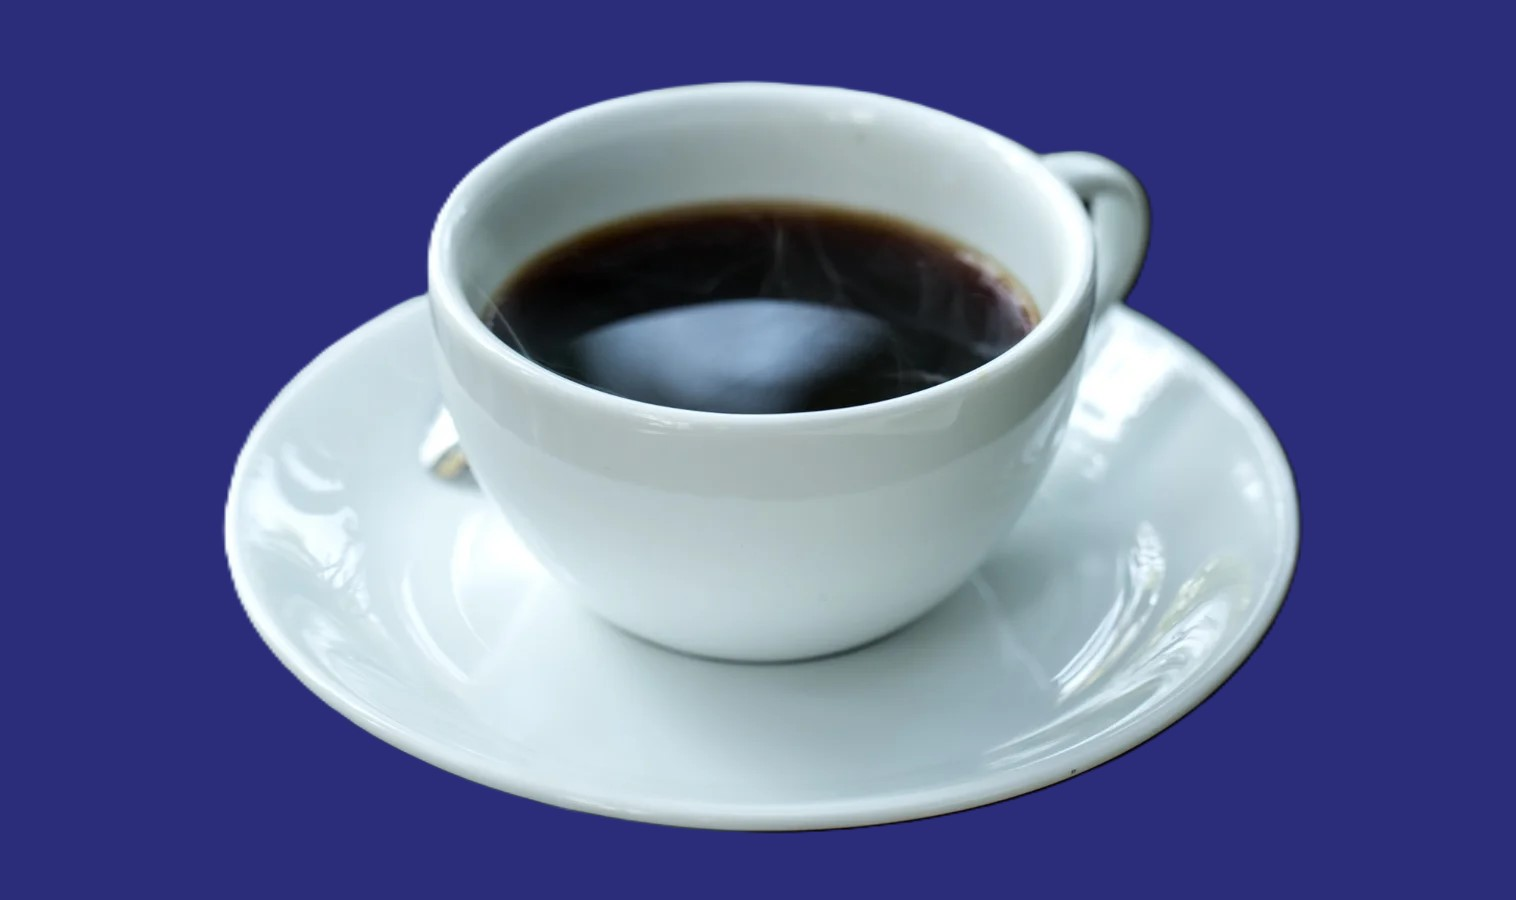
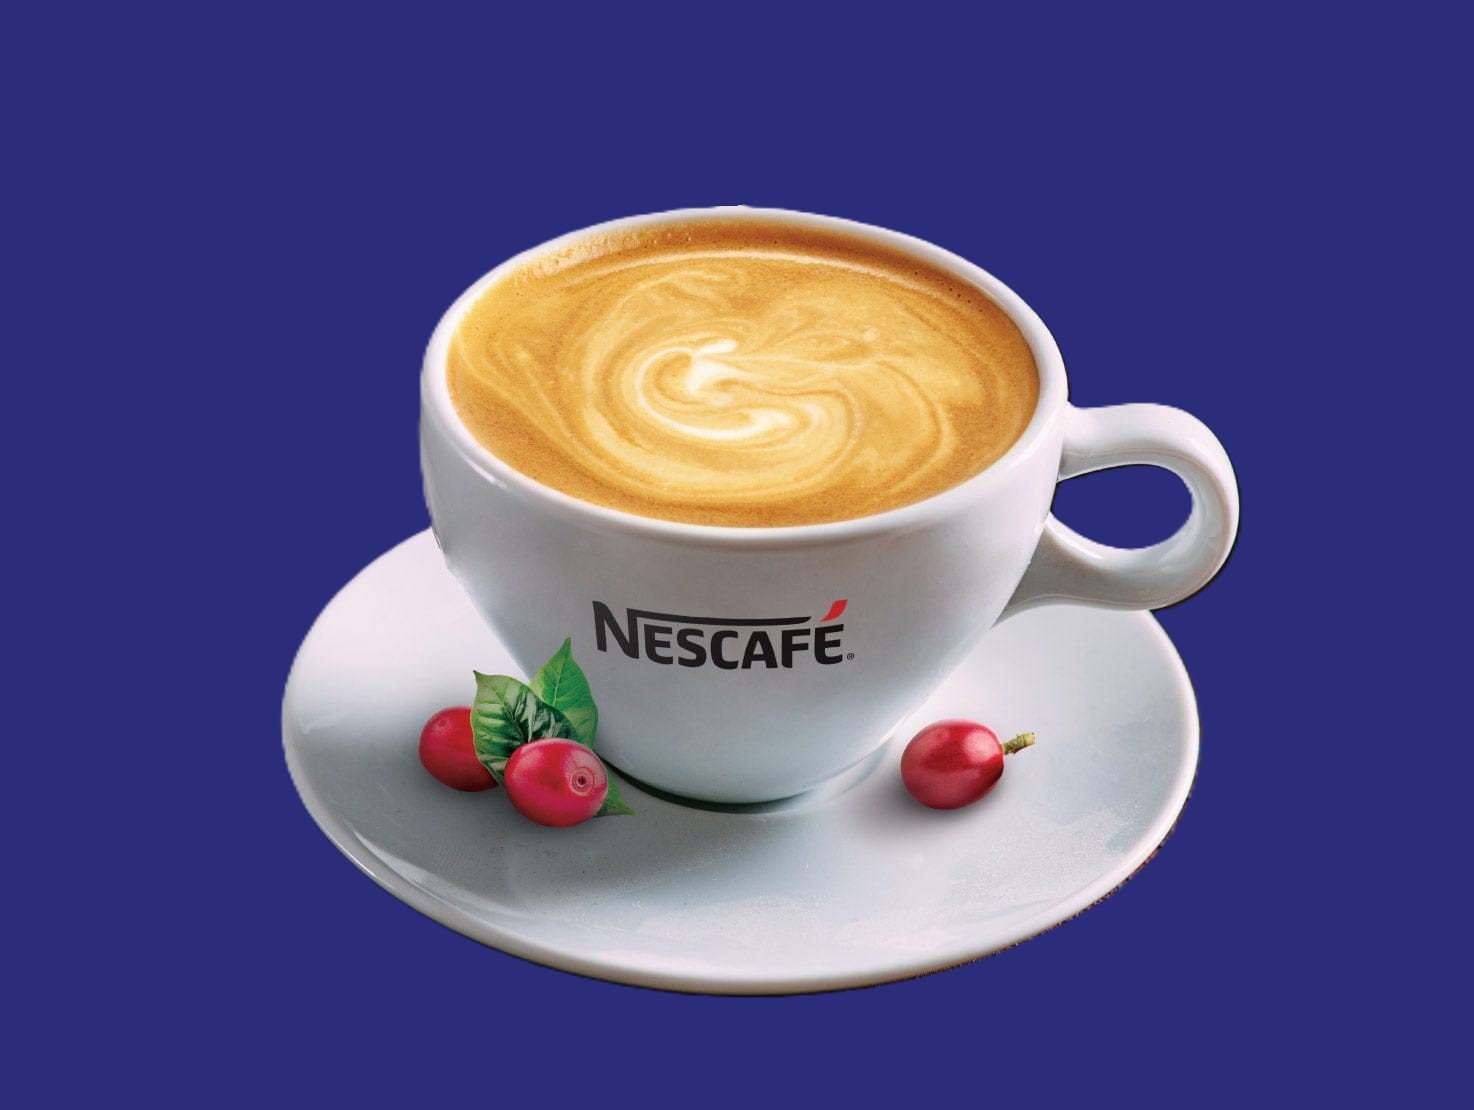
feat: added new item to menu TeaPot. fix: -deleted unused phone number - changed nescafe and nesta images -fixed some layout responsivness bugs to work on the smaller screen sizes.

diff --git a/src/pages/menu.tsx b/src/pages/menu.tsx
@@ -142,7 +142,7 @@ const menuItems: MenuItem[] = [
 		category: "drinks",
 		drinkType: "cold",
 		name: "Barbican",
-		price: 6.0,
+		price: 8,
 		description:
 			"Non-alcoholic malt beverage with a rich, refreshing taste. Perfect complement to your hookah session.",
 		image: "/barbican.jpg",
@@ -222,7 +222,7 @@ const menuItems: MenuItem[] = [
 		price: 5.0,
 		description:
 			"Classic iced tea with a refreshing lemon flavor. Light and thirst-quenching.",
-		image: "/nestea-peach.jpg",
+		image: "/nesta-lemon.jpg",
 		bestSeller: false,
 	},
 	{
@@ -307,6 +307,17 @@ const menuItems: MenuItem[] = [
 		id: 24,
 		category: "drinks",
 		drinkType: "hot",
+		name: "Nescafe",
+		price: 7.0,
+		description:
+			"Instant coffee made with premium Nescafe blend. Quick, convenient, and satisfying.",
+		image: "/Coffee.jpg",
+		bestSeller: false,
+	},
+	{
+		id: 25,
+		category: "drinks",
+		drinkType: "hot",
 		name: "Black Tea",
 		price: 6.0,
 		description:
@@ -315,7 +326,7 @@ const menuItems: MenuItem[] = [
 		bestSeller: false,
 	},
 	{
-		id: 25,
+		id: 26,
 		category: "drinks",
 		drinkType: "hot",
 		name: "Green Tea",
@@ -326,7 +337,7 @@ const menuItems: MenuItem[] = [
 		bestSeller: false,
 	},
 	{
-		id: 26,
+		id: 27,
 		category: "drinks",
 		drinkType: "hot",
 		name: "Peppermint Tea",
@@ -337,14 +348,16 @@ const menuItems: MenuItem[] = [
 		bestSeller: false,
 	},
 	{
-		id: 27,
+		id: 28,
 		category: "drinks",
 		drinkType: "hot",
-		name: "Nescafe",
+		name: "Teapot (Serves 4)",
 		price: 7.0,
-		description:
-			"Instant coffee made with premium Nescafe blend. Quick, convenient, and satisfying.",
-		image: "/Coffee.jpg",
+		description: `Choose your favorite tea:
+	Black Tea, 
+	Green Tea, 
+		Peppermint Tea`,
+		image: "/teapot.jpg",
 		bestSeller: false,
 	},
 ];
@@ -668,22 +681,36 @@ const MenuCard = ({ item }: { item: MenuItem }) => {
 					src={item.image || "/placeholder.svg"}
 					alt={item.name}
 					fill
-					className="object-fill transition-transform duration-300 hover:scale-104"
+					className="object-fill transition-transform duration-300 hover:scale-104 focus:scale-104"
 					loading="lazy"
 				/>
 			</div>
 
 			<CardContent className="p-6">
 				<div className="flex justify-between items-start mb-3">
-					<h3 className="text-xl font-serif font-semibold text-gray-900">
-						{item.name}
-					</h3>
-					<span className="font-bold text-lg text-[#2b347b]">
-						${item.price.toFixed(2)}
-					</span>
+					{item.name === "Barbican" ? (
+						<h3 className="text-xl font-serif font-semibold text-gray-900">
+							{item.name}{" "}
+							<span className="text-sm text-gray-700 ml-1">
+								( we have several flavors )
+							</span>
+						</h3>
+					) : (
+						<h3 className="text-xl font-serif font-semibold text-gray-900">
+							{item.name}
+						</h3>
+					)}
+
+					{item.category === "shisha" ? (
+						<span className="font-bold text-lg text-[#2b347b]">
+							${item.price.toFixed(2)}
+						</span>
+					) : (
+						<></>
+					)}
 				</div>
 
-				<p className="text-gray-600 text-sm leading-relaxed mb-4 line-clamp-3">
+				<p className="text-gray-600 text-[12.5px] sm:text-sm leading-relaxed mb-4 line-clamp-3">
 					{item.description}
 				</p>
 
@@ -700,7 +727,7 @@ const MenuCard = ({ item }: { item: MenuItem }) => {
 
 			{/* Detailed View Overlay - Only for Shisha */}
 			{showDetails && item.category === "shisha" && (
-				<div className="absolute inset-0 bg-[#2b347b] z-20 flex flex-col p-4 animate-in slide-in-from-bottom duration-300 hide-scrollbar overflow-y-auto">
+				<div className="absolute  inset-0 bg-[#2b347b] z-20 flex flex-col p-3 animate-in slide-in-from-bottom duration-300 hide-scrollbar overflow-y-auto">
 					<Button
 						variant="ghost"
 						size="sm"
@@ -724,7 +751,7 @@ const DetailedView = ({ item }: { item: MenuItem }) => {
 	};
 
 	return (
-		<div className="text-white space-y-4 max-h-96 overflow-y-auto hide-scrollbar">
+		<div className="text-white space-y-4  max-h-[86%] overflow-y-auto hide-scrollbar">
 			{/* Available Add-ons Section */}
 			<div>
 				<h4 className="font-bold text-base mb-3 text-blue-300 flex items-center">
@@ -746,7 +773,7 @@ const DetailedView = ({ item }: { item: MenuItem }) => {
 					))}
 				</div>
 			</div>
-
+			<hr className="bg-gray-950 w-48 " />
 			{/* Flavours Section */}
 			<div>
 				<h4 className="font-bold text-base mb-3 text-blue-300 flex items-center">
@@ -757,7 +784,7 @@ const DetailedView = ({ item }: { item: MenuItem }) => {
 					{flavours.map((group: FlavourGroup) => (
 						<div key={group.category}>
 							<h5
-								className={` text-md font-extrabold uppercase tracking-wider mb-2 ${
+								className={` text-sm font-extrabold uppercase tracking-wider mb-2 ${
 									categoryColors[group.category] || "text-blue-300"
 								}`}
 							>
@@ -782,9 +809,9 @@ const DetailedView = ({ item }: { item: MenuItem }) => {
 							</div>
 						</div>
 					))}
-					<div className="my-3 font-sans text-yellow-500 uppercase">
-						<span className="text-2xl text-red-800">*</span> You can add your
-						own mixs <span className="text-2xl text-red-800">*</span>
+					<div className="my-3 font-sans text-yellow-500 uppercase text-sm">
+						<span className="text-xl text-red-800">*</span> You can add your own
+						mixes <span className="text-xl text-red-800">*</span>
 					</div>
 				</div>
 			</div>

diff --git a/src/components/Navigation.tsx b/src/components/Navigation.tsx
@@ -1,69 +1,79 @@
-import { useState } from 'react';
-import Link from 'next/link';
-import { Menu, X } from 'lucide-react';
-import Image from 'next/image';
+import { useState } from "react";
+import Link from "next/link";
+import { Menu, X } from "lucide-react";
+import Image from "next/image";
 
 export default function Navigation() {
-  const [isOpen, setIsOpen] = useState(false);
+	const [isOpen, setIsOpen] = useState(false);
 
-  return (
-    <nav className="fixed top-0 w-full bg-transparent backdrop-blur-sm z-50 pt-4">
-      <div className="max-w-6xl mx-auto px-8 sm:px-12 lg:px-16">
-        <div className="flex justify-between items-center h-20 ">
-          {/* Logo */}
-          <Link href="/" className="flex items-center space-x-3 hover:opacity-80 transition-opacity">
-            <Image 
-              src="/downloadfile.png" 
-              alt="Moon Lounge Logo" 
-              width={240} 
-              height={80}
-              className="h-20 w-auto"
-              priority
-              quality={100}
-            />
-          </Link>
+	return (
+		<nav className="fixed top-0 w-full bg-transparent backdrop-blur-sm z-50 pt-4">
+			<div className="max-w-6xl mx-auto px-12 sm:px-16 lg:px-20">
+				<div className="flex justify-between items-center  h-16 sm:h-20 ">
+					{/* Logo */}
+					<Link
+						href="/"
+						className="flex items-center space-x-3 hover:opacity-80 transition-opacity"
+					>
+						<Image
+							src="/downloadfile.png"
+							alt="Moon Lounge Logo"
+							width={240}
+							height={80}
+							className="sm:h-20 h-16 w-auto"
+							priority
+							quality={100}
+						/>
+					</Link>
 
-          {/* Desktop Navigation */}
-          <div className="hidden md:flex items-center space-x-8">
-            <Link href="/" className="text-white hover:text-blue-400 transition-colors font-medium">
-              Home
-            </Link>
-            <Link href="/menu" className="text-white hover:text-blue-400 transition-colors font-medium">
-              Menu
-            </Link>
-          </div>
+					{/* Desktop Navigation */}
+					<div className="hidden md:flex items-center space-x-8">
+						<Link
+							href="/"
+							className="text-white hover:text-blue-400 transition-colors font-medium"
+						>
+							Home
+						</Link>
+						<Link
+							href="/menu"
+							className="text-white hover:text-blue-400 transition-colors font-medium"
+						>
+							Menu
+						</Link>
+					</div>
 
-          {/* Mobile menu button */}
-          <button
-            onClick={() => setIsOpen(!isOpen)}
-            className="md:hidden text-white transition-colors"
-          >
-            {isOpen ? <X size={24} /> : <Menu size={24} />}
-          </button>
-        </div>
+					{/* Mobile menu button */}
+					<button
+						aria-label="Menu-btn"
+						onClick={() => setIsOpen(!isOpen)}
+						className="md:hidden text-white transition-colors"
+					>
+						{isOpen ? <X size={24} /> : <Menu size={24} />}
+					</button>
+				</div>
 
-        {/* Mobile Navigation */}
-        {isOpen && (
-          <div className="md:hidden bg-black/95 absolute top-20 left-0 right-0 border-b border-blue-500/20 ">
-            <div className="px-4 py-4 space-y-4">
-              <Link 
-                href="/" 
-                className="block text-white focus:text-blue-400 transition-colors font-medium"
-                onClick={() => setIsOpen(false)}
-              >
-                Home
-              </Link>
-              <Link 
-                href="/menu" 
-                className="block text-white focus:text-blue-400 transition-colors font-medium"
-                onClick={() => setIsOpen(false)}
-              >
-                Menu
-              </Link>
-            </div>
-          </div>
-        )}
-      </div>
-    </nav>
-  );
+				{/* Mobile Navigation */}
+				{isOpen && (
+					<div className="md:hidden bg-black/95 absolute top-20 left-0 right-0 border-b border-blue-500/20 ">
+						<div className="px-4 py-4 space-y-4">
+							<Link
+								href="/"
+								className="block text-white focus:text-blue-400 transition-colors font-medium"
+								onClick={() => setIsOpen(false)}
+							>
+								Home
+							</Link>
+							<Link
+								href="/menu"
+								className="block text-white focus:text-blue-400 transition-colors font-medium"
+								onClick={() => setIsOpen(false)}
+							>
+								Menu
+							</Link>
+						</div>
+					</div>
+				)}
+			</div>
+		</nav>
+	);
 }

diff --git a/src/components/Location.tsx b/src/components/Location.tsx
@@ -46,13 +46,7 @@ export default function Location() {
 										>
 											+1 647-809-9552
 										</a>
-										<br />
-										<a
-											href="tel:+14167510962"
-											className="text-gray-300 hover:text-white transition-colors"
-										>
-											+1 416-751-0962
-										</a>
+										
 									</div>
 								</div>
 

diff --git a/src/components/Hero.tsx b/src/components/Hero.tsx
@@ -13,7 +13,7 @@ export default function Hero() {
       {/* Background Video */}
       <div className="absolute inset-0">
         <video
-          className="absolute inset-0 w-full h-full object-fill"
+          className="absolute inset-0 w-full h-full object-contain"
           autoPlay
           muted
           loop

diff --git a/src/components/Layout.tsx b/src/components/Layout.tsx
@@ -25,7 +25,7 @@ export default function Layout({ children }: { children: ReactNode }) {
 			<Navigation />
 
 			{/* Page Content */}
-			<main className="flex-grow ">{children}</main>
+			<main className="p-1">{children}</main>
 		</div>
 	);
 }
